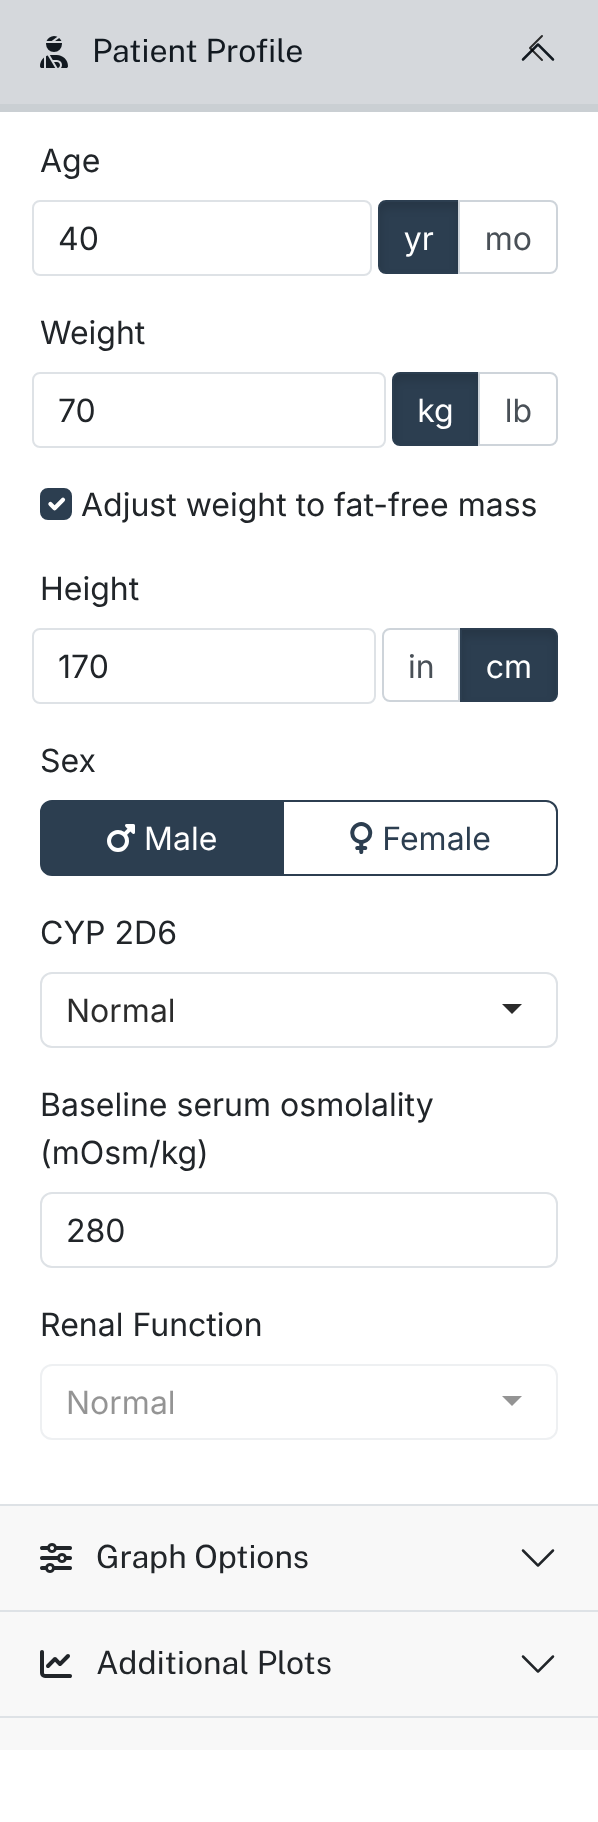
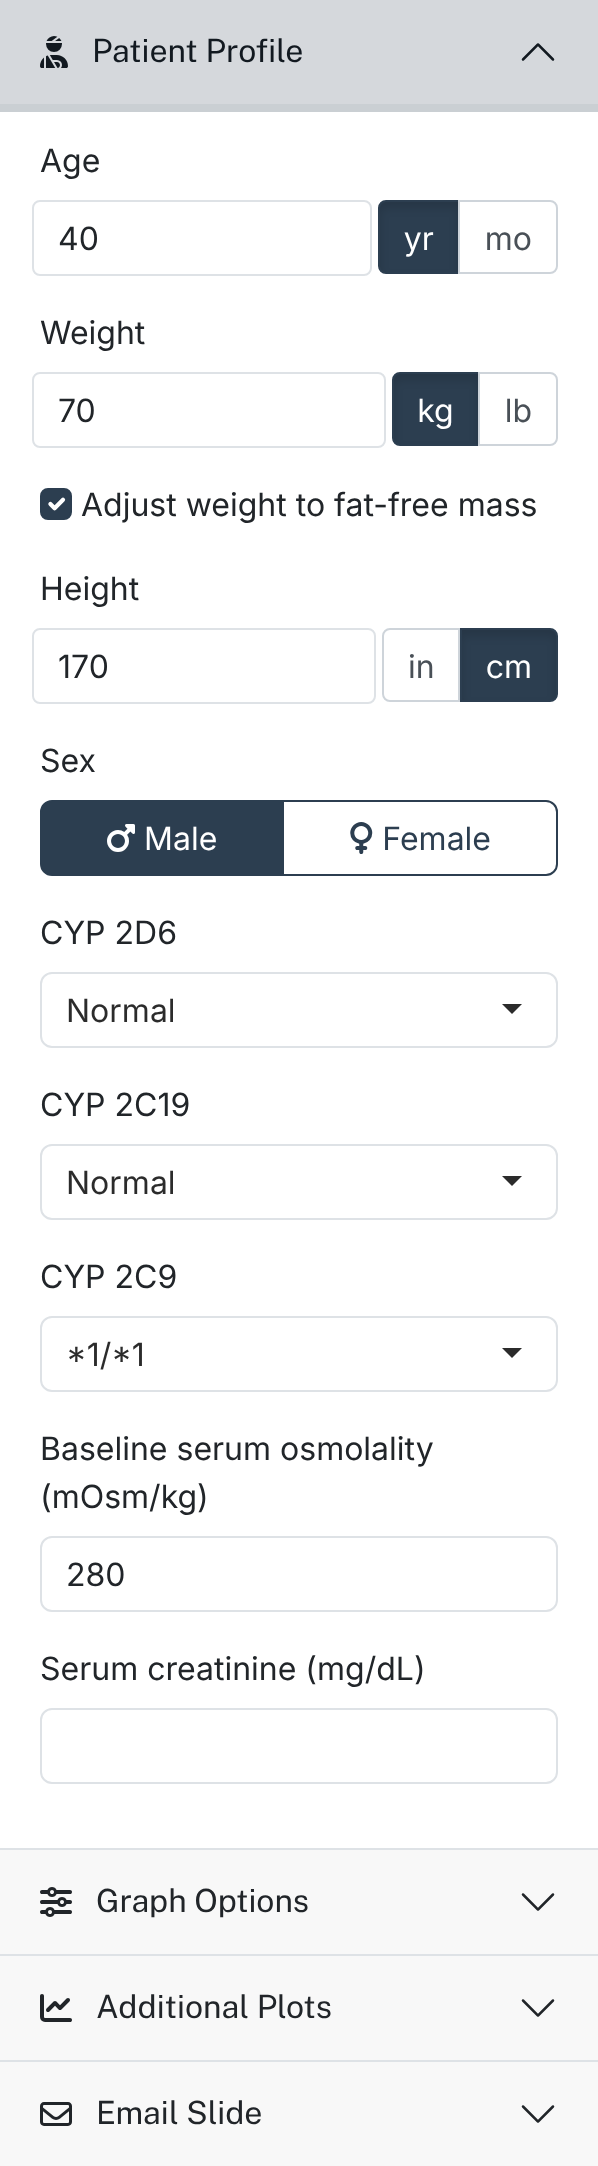
Help: sort the drug library; generated drug pages cover the newer features
- The Drug library section of the sidebar, and both tables on its "All
  drugs" page, followed the row order of drugDefaults_global.csv. They now
  sort by title, ignoring case, at render time, so a drug added anywhere in
  the CSV lands in place; a test shuffles the CSV and appends a drug.
- Links to a drug page ("Active metabolite", "Formed from", the formation
  table) showed the raw page id ("drugs/hydroxyrisperidone");
  helpPageLink() now titles a drug page as the sidebar does.
- The fat-free-mass note no longer says every model's clearances scale by
  the FFM ratio to the 0.75 power: a model with its own size term applies
  that to the fat-free-mass weight instead.
- The routes table lists each oral form with its own absorption
  (mg PO liquid, ER), describes pulsed XR release and the perineural
  catheter infusion (mg/hr RA); an mg/day PO drug says how that input is
  applied.
- Generated CYP2D6 tables for models that read it for their own clearance
  (haloperidol, aripiprazole) and CYP2C9 tables (meloxicam's clearance,
  phenytoin's Vmax), like the existing CYP2C19 one.
- Models that read serum creatinine say so, and that their tables assume a
  normal value for age and sex.
- The "All drugs" table is headed "Drugs", not "Intravenous drugs": it
  holds oral-only and metabolite-only drugs too.
- Quick start: screenshots retaken from the current app (startup drug
  menu, CYP 2C19, CYP 2C9 and serum creatinine fields, Show illicit drugs,
[…]

diff --git a/inst/help/quick-start.md b/inst/help/quick-start.md
@@ -5,7 +5,14 @@ Five steps produce a simulation. Everything else in this help is refinement.
 <figcaption>The simulator. Patient and graph settings on the left, the plot in the middle, the dose table on the right.</figcaption>
 </figure>
 
-When the app opens it asks which drugs to display, with a box for each drug, grouped by category: hypnotics and sedatives, opioids, neuromuscular blockade, inhaled anesthetics, antibiotics, corticosteroids and others. Propofol, fentanyl, remifentanil and rocuronium start ticked; untick them to start with something else. **Start** puts each ticked drug in the dose table with a dose of 0 at time 0, ready to edit. Any drug can be added to the dose table later. On a first visit, and once a week after that, the dialog also states what stanpumpR is and is not, and **Take the tour** starts with your ticked drugs and brings you to this page.
+When the app opens it asks which drugs to display, with a box for each drug, grouped by category: hypnotics and sedatives, opioids, oral analgesics, neuromuscular blockade, inhaled anesthetics, antibiotics, corticosteroids, antidepressants, stimulants, local anesthetics, antiemetics, antiseizure drugs, antipsychotics and others. The illicit-drug research models are never offered here. Propofol, fentanyl, remifentanil and rocuronium start ticked; untick them to start with something else. **Start** puts each ticked drug in the dose table with a dose of 0 at time 0, ready to edit. Any drug can be added to the dose table later.
+
+<figure class="help-figure help-figure-medium">
+<img src="stanpumpr-assets/help/quick-start-welcome.png" alt="The opening dialog: the statement of what stanpumpR is, a Take the tour button, and the drugs to display as checkboxes in fourteen groups, with propofol, fentanyl, remifentanil and rocuronium ticked and a Start button at the bottom">
+<figcaption>The opening dialog, as on a first visit: the statement of what stanpumpR is, then the drugs to display, grouped by category.</figcaption>
+</figure>
+
+On a first visit, and once a week after that, the dialog also states what stanpumpR is and is not, and **Take the tour** starts with your ticked drugs and brings you to this page.
 
 A link to a saved simulation, or reloading the page, skips the question and opens the simulation as it was, provided its dose table has at least one drug in it. With an empty dose table (for instance, reloading before pressing **Start**), the question is asked again.
 
@@ -14,11 +21,11 @@ A link to a saved simulation, or reloading the page, skips the question and open
 Open **Patient Profile** in the left sidebar. Enter age, weight, height and sex. The unit buttons beside each field switch between years and months, kilograms and pounds, inches and centimetres. These four covariates drive the pharmacokinetic models, so they change the predictions.
 
 <figure class="help-figure help-figure-narrow">
-<img src="stanpumpr-assets/help/quick-start-patient.png" alt="The Patient Profile panel: age with yr/mo buttons, weight with kg/lb and the ticked Adjust weight to fat-free mass box, height with in/cm, sex, CYP 2D6 set to Normal, baseline serum osmolality of 280 mOsm/kg, and the greyed-out Renal Function field">
-<figcaption>The Patient Profile panel for a 40-year-old man. The greyed-out Renal Function selector shown here has since been replaced by an optional Serum creatinine field; Pregnant, disabled, appears only for women of child-bearing age.</figcaption>
+<img src="stanpumpr-assets/help/quick-start-patient.png" alt="The Patient Profile panel: age with yr/mo buttons, weight with kg/lb and the ticked Adjust weight to fat-free mass box, height with in/cm, sex, CYP 2D6 and CYP 2C19 set to Normal, CYP 2C9 set to *1/*1, baseline serum osmolality of 280 mOsm/kg, and an empty Serum creatinine field">
+<figcaption>The Patient Profile panel for a 40-year-old man. Serum creatinine is left blank, so a normal value is assumed. Pregnant, disabled, appears only for women of child-bearing age.</figcaption>
 </figure>
 
-*Adjust weight to fat-free mass* is on by default. *CYP 2D6* sets the metaboliser phenotype for the drugs with active metabolites. *Baseline serum osmolality* is read only by mannitol. *Serum creatinine* is optional and used by the renally cleared drugs; left blank, a normal value is assumed. *Pregnant*, for women of child-bearing age, is visible but disabled. See [Patient profile](help:patient-profile).
+*Adjust weight to fat-free mass* is on by default. *CYP 2D6* sets the metaboliser phenotype for the drugs with active metabolites and some antipsychotics; *CYP 2C19* and *CYP 2C9* are read by the few drugs whose models depend on them. *Baseline serum osmolality* is read only by mannitol. *Serum creatinine* is optional and used by the renally cleared drugs; left blank, a normal value is assumed. *Pregnant*, for women of child-bearing age, is visible but disabled. See [Patient profile](help:patient-profile).
 
 ## 2. Enter the doses
 
@@ -31,6 +38,7 @@ The **Doses** table is to the right of the plot. In the *Drug* column, start typ
 
 - A mass unit (`mg`, `mcg/kg`) makes the row a **bolus**.
 - A rate unit (`mcg/kg/min`, `mg/hr`) makes the row an **infusion** that runs until the next row for that drug changes it. To stop an infusion, add a row at the stop time with a dose of 0.
+- A unit with a route (`mg PO`, `mg IM`, `mg RA`) gives the dose by that route, and one ending in `qd`, `bid`, `tid` or `qid` (`mg PO bid`) repeats it on that schedule to the end of the plot.
 
 Right-click a row to insert or remove rows. See [The dose table](help:dose-table).
 
@@ -55,10 +63,10 @@ See [Reading the plot](help:reading-the-plot).
 
 ## 5. Refine
 
-**Graph Options** sets how far the simulation runs (*Max time*, whose choices follow the time units), line styles, normalization, a log axis, and the *Time until threshold* lines.
+**Graph Options** sets how far the simulation runs (*Max time*, whose choices follow the time units), line styles, normalization, a log axis, the *Time until threshold* lines, and the *Minto / Schnider* switch that draws those propofol and remifentanil models beside Eleveld's.
 
 <figure class="help-figure help-figure-narrow">
-<img src="stanpumpr-assets/help/quick-start-graph-options.png" alt="The Graph Options panel: Show typical, Normalize to, Max time, plasma and effect-site line styles, Y axis height, Time until threshold, and the opioid-MAC interaction checkbox">
+<img src="stanpumpr-assets/help/quick-start-graph-options.png" alt="The Graph Options panel: Show typical, Normalize to, Max time, plasma and effect-site line styles, Y axis height, Time until threshold, the opioid-MAC interaction checkbox and the Minto / Schnider switch">
 <figcaption>The Graph Options panel.</figcaption>
 </figure>
 
